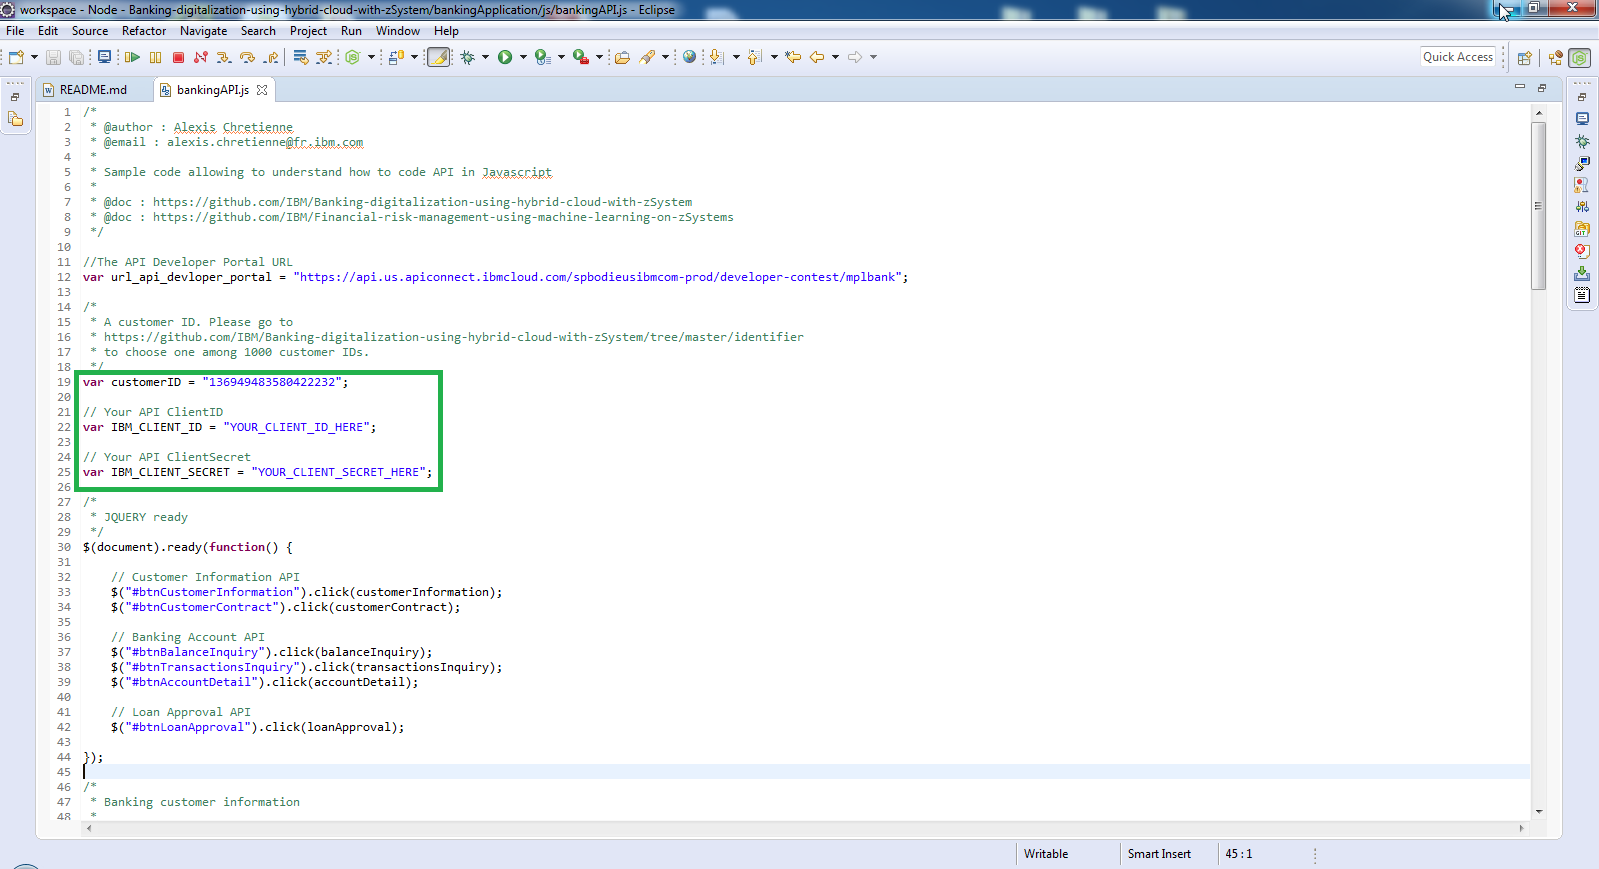
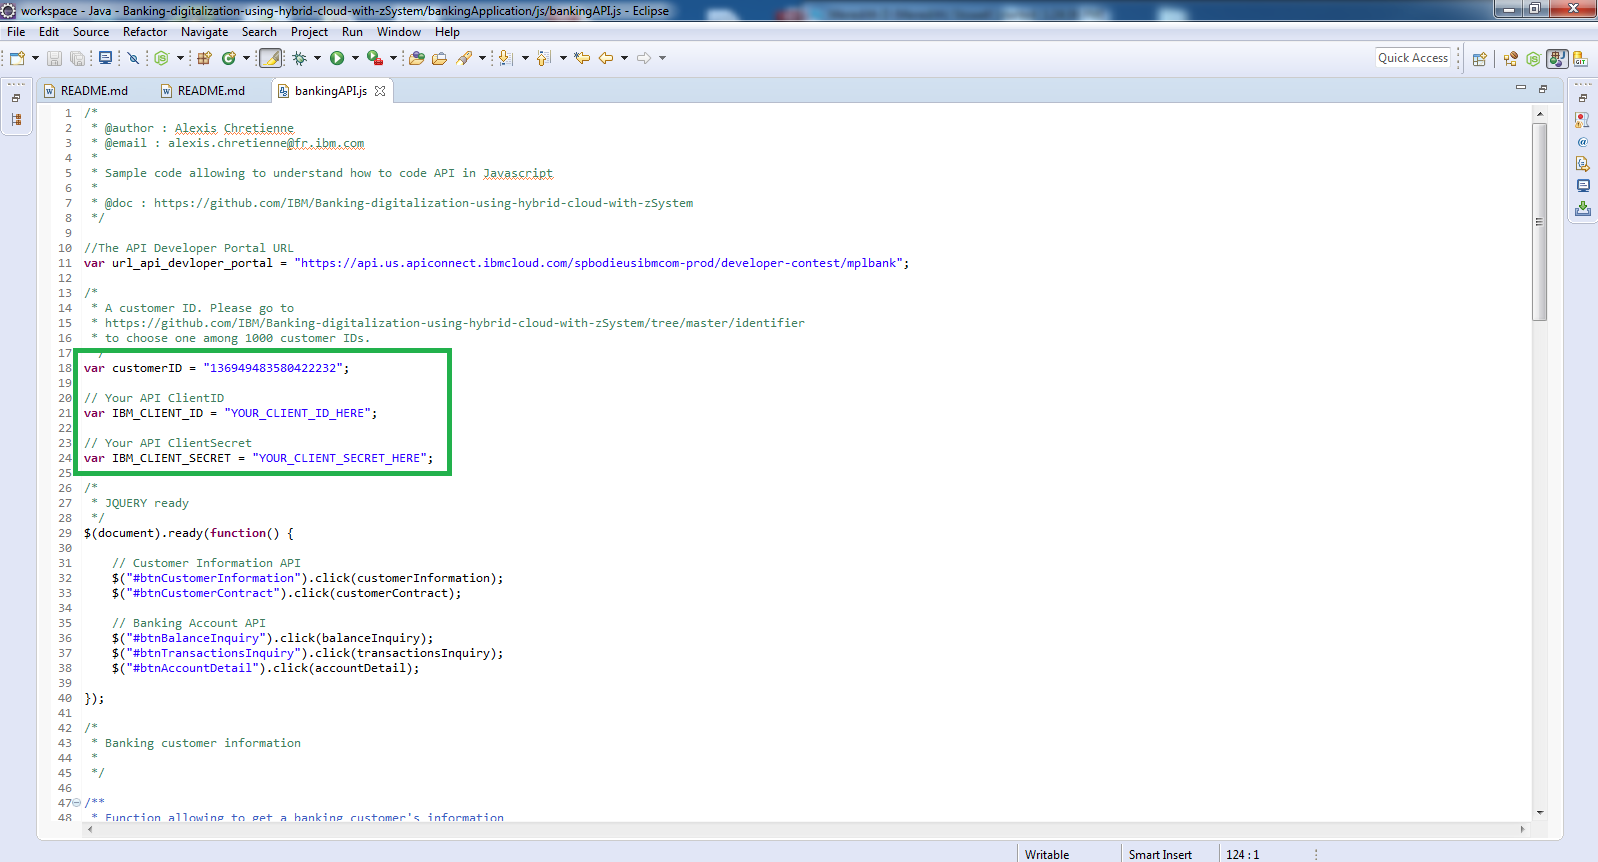
update doc

Changed region(s): [[0.0, 0.0, 1.0, 1.0], [0.0, 0.9954, 0.0307, 1.0]]

diff --git a/bankingApplication/js/bankingAPI.js b/bankingApplication/js/bankingAPI.js
@@ -5,7 +5,6 @@
  * Sample code allowing to understand how to code API in Javascript
  * 
  * @doc : https://github.com/IBM/Banking-digitalization-using-hybrid-cloud-with-zSystem
- * @doc : https://github.com/IBM/Financial-risk-management-using-machine-learning-on-zSystems 
  */
 
 //The API Developer Portal URL
@@ -37,9 +36,6 @@ $(document).ready(function() {
 	$("#btnBalanceInquiry").click(balanceInquiry);
 	$("#btnTransactionsInquiry").click(transactionsInquiry);
 	$("#btnAccountDetail").click(accountDetail);
-
-	// Loan Approval API
-	$("#btnLoanApproval").click(loanApproval);
 
 });
 
@@ -125,31 +121,6 @@ function accountDetail() {
 
 }
 
-/*
- * Loan Approval - Risk Management Information
- */
-
-/**
- * Function allowing to get a loan approval
- * 
- * @returns a score
- */
-function loanApproval() {
-
-	var age = $("#inputAge").val();
-	var income = $("#inputIncome").val();
-	var numberOfCard = $("#inputNumberOfCard").val();
-	var diploma = $("#inputDiploma").val();
-	var numberOfCarLoan = $("#inputNumberOfCarLoan").val();
-
-	var path = "/customers/loan/calculateScore";
-	var queryParamaeter = "?age=" + age + "&income=" + income
-			+ "&numberOfCard=" + numberOfCard + "&diploma=" + diploma
-			+ "&numberOfCarLoan=" + numberOfCarLoan;
-
-	doGet(path, queryParamaeter);
-
-}
 
 /*
  * Miscellaneous function

diff --git a/bankingApplication/index.html b/bankingApplication/index.html
@@ -62,19 +62,6 @@
             <button id="btnAccountDetail" type="button" class="btn btn-success">Go</button>
           </div>
         </div>
-       
-
-        <div class="card text-xs-center">
-          <h3 class="card-header">Loan Approval</h3>
-          <div class="card-block">
-            <p class="card-text"><input class="form-control" id="inputAge" placeholder="Age"></p>
-            <p class="card-text"><input class="form-control" id="inputIncome" placeholder="Income"></p>
-            <p class="card-text"><input class="form-control" id="inputNumberOfCard" placeholder="Number of credit card"></p>
-            <p class="card-text"><input class="form-control" id="inputDiploma" placeholder="Diploma"></p>
-            <p class="card-text"><input class="form-control" id="inputNumberOfCarLoan" placeholder="Number of car loan"></p>
-            <button id="btnLoanApproval" type="button" class="btn btn-success">Go</button>
-          </div>
-        </div>
 
       </div>
     </div>

diff --git a/README.md b/README.md
@@ -139,36 +139,97 @@ More information about Technologies in [MPLBank Readme].
 
 A quick banking application has been developed in order to help you to start coding. This web application (HTML/CSS/javascript) uses banking APIs introduced before. 
 
+## 1. Download and review the Banking application code
+
 1.	Download and import the project *bankingApplication* located in this Github repository into you preferred IDE like Eclipse.
 
 2.	Review the *index.html* file in order to understand how the program works.
 
 3.	Review the *bankingAPI.js* file in order to understand how the program works.
 	![alt text](images/bankingCodeJS.png "JS Code")
-	* Change the customer ID if needed. It has been harcoded for this sample. you can change it though the *identifier* folder in this Github repository. 1000 customers has been generated, meaning it represents 1000 different banking customers.
+	* Change the customer ID if needed. It has been hardcoded for this sample code. you can change it though the *identifier* folder in this Github repository. 1000 customers has been generated, meaning it represents 1000 different banking customers.
 	* Replace replace **IBM_CLIENT_ID** & **IBM_CLIENT_SECRET** variables by yours.
 	
-4.	Open the *index.html* in your favorite web browser. The application will automatically run.
-	![alt text](images/banking_application.png "Banking Application Sample")
+## 2. Run the Banking application
+	
+1.	Open the *index.html* in your favorite web browser. The application will automatically run.
+	
+2.	Click on the button **Click here to load a banking customer profile**. 
+	![alt text](images/banking_application_result.png "Banking Application Sample")
+	
+	This click will call the published API **GET /customer/{customerID}**. 
+	
+3. 	Understand the JSON response from this API call.
 
-	Click on the button **Click here to load a banking customer profile**. This click will call the published API **GET /customer/{customerID}**. A result is displayed in the bottom of the page. Actually, it represents the expected JSON structure returned by the API. Then, explore this banking application through the code and call each services representing each published API.
+	A result is displayed in the bottom of the page. Actually, it represents the expected JSON structure returned by the API.
+
+4.	Call each other services representing each published API.
 
 ---
 
-:thumbsup: Congratulations! You have successfully developed your first application.
+:thumbsup: Congratulations! You have successfully developed your first banking application.
 
 ---
 
+# Part C: Extend the Banking application
 
-# Part D: Extend the banking application
+The purpose of this sample application is to understand how to code and use APIs. If you want more about APIs, Hybrid Architecture and Bluemix, Please find ideas below
 
-The purpose of this sample application is to understand how to code and use APIs. If you want more about APIs, Hybrid Architecture and Bluemix, Please find ideas: 
+## 1. Start with Node.js on Bluemix
 
-* Convert this sample project to a Node JS project on IBM Bluemix. [Sign up or log in to IBM Bluemix].
+1.	[Sign up or log in to IBM Bluemix]
+	
 	> NOTE: Use IBM Bluemix to create, test and deploy a quick application. Choose among JAVA Liberty Profile, Node Js servers, Ruby, Python, etc... This platform also provides DevOps tools for a continuous delivery (Git, automatic deployment) and a lot of innovative features & services.
 
-* Integrate [IBM Watson Services] (APIs) from IBM Bluemix to build a banking cognitive application.
-![alt text](images/watsonServices.png "Watson services")
+
+2.	Go to the catalog and select **SDK for Node.js**.
+	![alt text](images/nodejsbluemix.png "Node.js on Bluemix")
+
+3.	Configure your Node.js project for free (30 days).
+	![alt text](images/nodejsBluemixConfiguration.png "Node.js on Bluemix Documentation")
+	* Give an App name.
+	* Select a domain.
+	* Select a region to deploy the project.
+	* Click **Create**.
+
+4. 	Wait for the Node.js Runtime creation.
+
+5. 	Once created, explore this panel to be familiar with it.
+	![alt text](images/nodejsAppReady.png "Node.js Main Panel")
+	* Click **Visit App URL**. The default Node.js Project (Hello World) has been provided.
+	* Explore each menu on the left panel to understand the Runtime, connections, logs, etc.
+ 
+6.	Follow the **Getting Started** to learn how to edit, pull and push code from your IDE to your Node.js Runtime in Bluemix.
+
+7.	Code the financial Risk Management API in your Node.js Application using the API developer Portal Documentation.
+
+## 2. Make a Cognitive application using Watson Services
+
+1.	Integrate [IBM Watson Services] (APIs) from the Bluemix catalog. 
+	![alt text](images/watsonServices.png "Watson services")
+	* Choose one of them.
+
+2.	Create the service
+	![alt text](images/watsonServicesCreate.png "Watson services Creation")
+	* Connect to your existing Node.js Project.
+	* Click **Create**.
+	
+3. 	Wait for the chosen Watson Service creation. It will be prompted for restaging your Node.js Application.
+
+4.	Explore the chosen Watson service in your Node.js Application
+	![alt text](images/watsonServicesAppReady.png "Watson services")
+	* Click **Connections**.
+	* Click **Docs**. You will learn how to use this service through APIs.
+	* Click **View Credentials**. You will have your API Credentials.
+	
+5. Code the chosen Watson service in your Node.js Application using the documentation and credentials.
+---
+
+:thumbsup: Congratulations! You have successfully developed your first banking Cognitive application in Bluemix.
+
+---
+
+
 
 * Bring your own IOT devices ([RASPBERRY PI], [ARDUINO], etc..) to make an innovative project coupled with [IBM Internet of Things Services].
 ![alt text](images/iotServices.png "IOT services")
